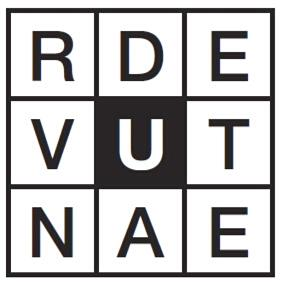
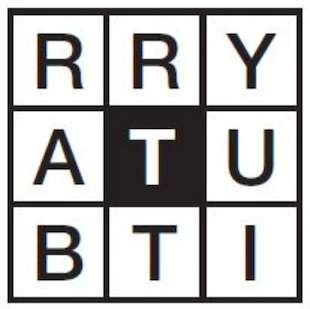
minor question and rules updates

diff --git a/questions.go b/questions.go
@@ -22,8 +22,7 @@ var questions = []question{
     <p><b>Rules</b>:</p>
     <ul>
         <li>1 point for the first correct answer</li>
-        <li>Google all you want, guess as many times as you want</li>
-        <li>Everyone can see all your guesses though</li>
+        <li>Unlimited guesses, but everyone can see all guesses made</li>
         <li>If you guess correctly, but can't explain your answer, you lose a point.</li>
     </ul>
     <p>Tip: If something goes wrong, refreshing the page should fix it. You won't lose progress on the quiz, since the state is server-side.</p>
@@ -35,15 +34,25 @@ var questions = []question{
 		},
 	},
 	{
+		q: `<h2>Question {{ .Question }}</h2>
+		<p>In which country is it traditional to eat KFC for Christmas dinner?</p>
+		{{ template "input" "a country" }}
+		<button type="submit">My travels have not been in vain</button>`,
+		check: func(answer string) bool {
+			return strings.EqualFold(answer, "japan")
+		},
+		reveal: `<h2>Answer</h2><p>Japan.</p>`,
+	},
+	{
 		q: `<h2>Question {{ .Question }} - for practice</h2>
 	<p>What is the 9 letter anagram?</p>
-    <p><img src="/static/images/target.png" alt="RDE VUT ANE"></p>
+    <p><img src="/static/images/target.png" alt="RRY ATU BTI"></p>
     {{ template "input" "the 9 letter word" }}
 	<button type="submit">I solved it</button>`,
 		check: func(answer string) bool {
-			return strings.EqualFold(answer, "adventure")
+			return strings.EqualFold(answer, "tributary")
 		},
-		reveal: `<h2>Answer</h2><p><b>ADVENTURE</b></p>`,
+		reveal: `<h2>Answer</h2><p><b>TRIBUTARY</b></p>`,
 	},
 	{
 		q: `<h2>Question {{ .Question }}</h2>
@@ -77,14 +86,14 @@ and a large yellow bulldozer is advancing on your home.
 	},
 	{
 		q: `<h2>Question {{ .Question }}</h2>
-    <p>What is this strange UI?</p>
-    <p><img src="/static/images/mysteriousdevice.jpeg" alt="A mysterious ancient technology"></p>
-    {{ template "input" "mysterious device" }}
-	<button type="submit">Easy</button>`,
+		<p>Who is this?</p>
+		<p><img src="https://celebrityxyz.com/i/p/66.jpg" alt="a delight for the senses"></p>
+		{{ template "input" "a famous name" }}
+		   <button type="submit">daaayuumm</button>`,
 		check: func(answer string) bool {
-			return strings.Contains(strings.ToLower(answer), "zune")
+			return strings.Contains(strings.ToLower(answer), "pedro pascal")
 		},
-		reveal: `<h2>Answer</h2><p>The <b><a href="https://en.wikipedia.org/wiki/Zune">Microsoft Zune</a></b>!</p>`,
+		reveal: `<h2>Answer</h2><p>Pedro Pascal</p><p><img src="https://api.time.com/wp-content/uploads/2017/10/pedro-pascal-fb.jpg?quality=85&w=600&h=314&crop=1" alt="Pedro"></p>`,
 	},
 	{
 		q: `<h2>Question {{ .Question }}</h2>
@@ -124,20 +133,24 @@ and a large yellow bulldozer is advancing on your home.
 			return false
 		},
 		reveal: `<h2>Answers</h2>
-<p>Pork products - Bacon, Lechon, Prosciutto, Speck</p>
-<p>Small amount - Iota, Morsel, Smidgen, Trace</p>
-<p>Backgammon terms - Anchor, Bear off, Pip, Gammon</p>
-<p>Ends with a silent letter - Autumn, Coup, Crumb, Debris</p>`,
+		<dl>
+<dt>Pork products</dt><dd>Bacon, Lechon, Prosciutto, Speck</dd>
+<dt>Small amount</dt><dd>Iota, Morsel, Smidgen, Trace</dd>
+<dt>Backgammon terms</dt><dd>Anchor, Bear off, Pip, Gammon</dd>
+<dt>Ends with a silent letter</dt><dd>Autumn, Coup, Crumb, Debris</dd>
+</dl>
+<p>Note: if you want a harder version of this, check out <a target="_blank" href="https://connecting-wall.netlify.app/">The Connecting Wall</a>, inspired by the BBC quiz show</p>`,
 	},
 	{
 		q: `<h2>Question {{ .Question }}</h2>
-		<p>In which country is it traditional to eat KFC for Christmas dinner?</p>
-		{{ template "input" "a country" }}
-		<button type="submit">My travels have not been in vain</button>`,
+    <p>What is this strange UI?</p>
+    <p><img src="/static/images/mysteriousdevice.jpeg" alt="A mysterious ancient technology"></p>
+    {{ template "input" "mysterious device" }}
+	<button type="submit">Easy</button>`,
 		check: func(answer string) bool {
-			return strings.EqualFold(answer, "japan")
+			return strings.Contains(strings.ToLower(answer), "zune")
 		},
-		reveal: `<h2>Answer</h2><p>Japan.</p>`,
+		reveal: `<h2>Answer</h2><p>The <b><a href="https://en.wikipedia.org/wiki/Zune">Microsoft Zune</a></b>!</p>`,
 	},
 	{
 		q: `<h2>Question {{ .Question }}</h2>
